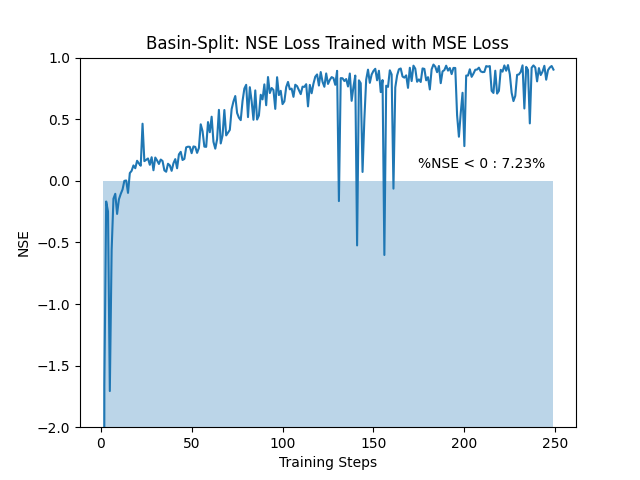
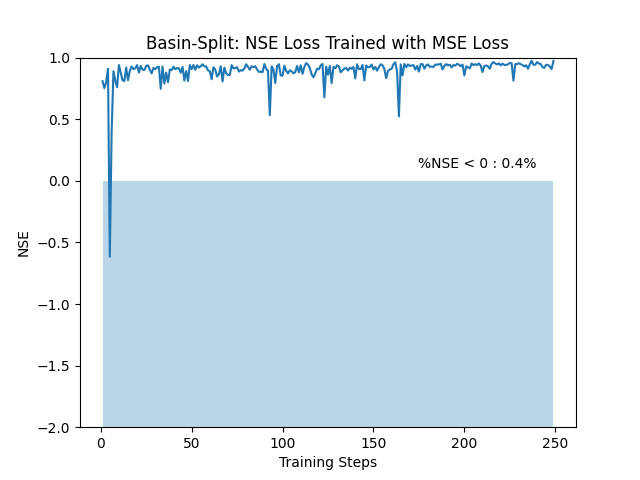
Train for 2 and 3 epochs

Changed region(s): [[0.1562, 0.125, 0.875, 0.875], [0.7812, 0.3125, 0.8438, 0.375]]

diff --git a/examples/lorenz96_Fdim/lorenz96_task.py b/examples/lorenz96_Fdim/lorenz96_task.py
@@ -78,7 +78,7 @@ def predict(model, path_to_test_csv, split, train_objective, test_objective):
     return
 
 def train(model, optimizer, split, train_objective, test_objective):
-    random.seed(42)
+    # random.seed(1)
     if split == "basin":
         train_dir = 'basin_split_train/'
         train_files = os.listdir(train_dir)
@@ -169,7 +169,9 @@ if __name__ == '__main__':
             train_loss_func = get_loss_from_obj(train_objective)
             model = initialize_model()
             optimizer = optim.Adam(model.parameters(), lr=args.lr)
-            steps, test_err = train(model, optimizer, split.lower(), train_objective, test_objective)
+            epochs = 2
+            for i in range(epochs):
+                steps, test_err = train(model, optimizer, split.lower(), train_objective, test_objective)
             create_loss_plot(steps, test_err, split, train_objective, test_objective)
             test_errs[(split, train_loss_func)] = test_err
 
